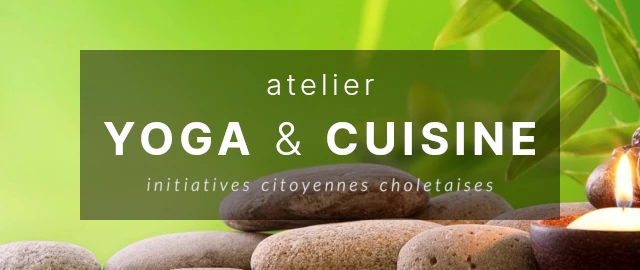
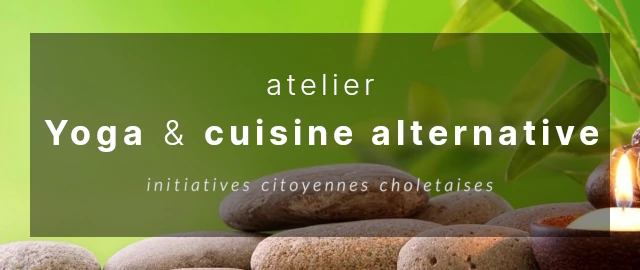
Dates d'ateliers cuisine

Changed region(s): [[0.0312, 0.1185, 0.9688, 0.8889]]

diff --git a/pg/e_003-ateliers cuisine.php b/pg/e_003-ateliers cuisine.php
@@ -41,68 +41,35 @@
       <small>Pour en savoir plus sur comment sont organisés ces ateliers     <a href="#Organisation">↓    voir plus bas    ↓</a></small>
       <div class="grid twin-img" style="z-index: 5;">
         <h2>Prochains rendez-vous</h2>
+        <!-- <small style="text-align: right;">Lieu : Cholet      9h30-14h00*<br><em>* yoga & cuisine alternative jusqu'à 14h30</em></small> -->
         <small style="text-align: right;">Lieu : Cholet      9h30-14h00</small>
       </div>
       <div class="navmobile">
         <small>
-          <a href="#box1">» céréales</a>   <a href="#box2">» légumineuses1</a>   <a href="#box3">» légumineuses2</a>   <a href="#box4">» tartes & tourtes</a>
+          <a href="#box1">Céréales et Légumineuses</a>   <a href="#box2">» Désserts Snacks et Petits Déjeuners</a>
         </small>
       </div>
       <div class="wrap">
         <section class="eventBox" id="box1">
-          <img src="../assets/img/e_005-atelier cuisine CEREALES.webp" alt="image date événement" width="10vw">
+          <img src="../assets/img/e_005-atelier cuisine CEREALES et LEGUMINEUSES.webp" alt="image date événement">
           <div class="txtBox">
-            <p>Pizza, crumble, farçis, burgers... Apprenez à cuisiner les céréales complètes et semi complètes avec ou sans gluten sous différentes formes avec des recettes inédites inspirées de Gilles Daveau.</p>
+            <p>Cet atelier associe céréales et légumineuses pour un apport protéinique nécessaire à notre organisme avec peu d'aliments d'origine animale. Les produits sont bios, majoritairement locaux, et de saison. Vous pourrez tester de nouvelles recettes et surtout des desserts !!!</p>
             <div class="displayBtn">
-              <a href="https://www.helloasso.com/associations/initiatives-citoyennes-choletaises/evenements/atelier-cuisine-cereales-avril"
-              title="Page d'inscription sur HelloAsso"><span class="btn _text">mercredi 30 avril 2025</span></a>
-            </div>
-            <div class="displayBtn">
-              <a href="https://www.helloasso.com/associations/initiatives-citoyennes-choletaises/evenements/atelier-cuisine-cereales-mai-1"
-              title="Page d'inscription sur HelloAsso"><span class="btn _text">samedi 17 mai 2025</span></a>
+              <a href="#"
+              title="Page d'inscription sur HelloAsso"><span class="btn _text">samedi 8 novembre 2025</span></a>
             </div>
           </div>
         </section>
         <section class="eventBox" id="box2">
-          <img src="../assets/img/e_004-atelier cuisine LEGUMINEUSES 1.webp" alt="image date événement" width="10vw">
+          <img src="../assets/img/e_005-atelier cuisine Desserts, Snacks ptits dej.webp" alt="image date événement">
           <div class="txtBox">
-            <p>Autour de 5 préparations inspirées des recettes de Gilles Daveau, il vous sera possible de requestionner vos habitudes alimentaires en laissant plus de places aux légumineuses bio.</p>
+            <p>Des desserts sucrés et gourmands, bons pour le moral. Oui mais avec raison et en dosant nous mêmes les apports en sucre et en gras loin des produits ultra transformés néfastes pour notre santé. On ose ajouter à nos recettes, des céréales, des légumineuses, des légumes...</p>
             <div class="displayBtn">
-              <a href="https://www.helloasso.com/associations/initiatives-citoyennes-choletaises/evenements/atelier-cuisine-legumineuses-1-juin"
-              title="Page d'inscription sur HelloAsso"><span class="btn _text">samedi 7 juin 2025</span></a>
+              <a href="https://www.helloasso.com/associations/initiatives-citoyennes-choletaises/evenements/atelier-desserts-snacks-et-petits-dejeuners"
+                title="Page d'inscription sur HelloAsso"><span class="btn _text">samedi 13 décembre 2025</span></a>
             </div>
           </div>
         </section>
-        <section class="eventBox" id="box3">
-          <img src="../assets/img/e_004-atelier cuisine LEGUMINEUSES 2.webp" alt="image date événement">
-          <div class="txtBox">
-            <p>C'est incroyable tout ce que l'on peut faire avec des légumineuses. Ce deuxième atelier vous permettra de découvrir d'autres idées autour de ces aliments incontournables pour une alimentation durable.</p>
-            <div class="displayBtn">
-              <a href="https://www.helloasso.com/associations/initiatives-citoyennes-choletaises/evenements/atelier-cuisine-legumineuses-2-juil"
-              title="Page d'inscription sur HelloAsso"><span class="btn _text">mercredi 2 juil 2025</span></a>
-            </div>
-          </div>
-        </section>
-        <section class="eventBox" id="box4">
-          <img src="../assets/img/e_006-atelier cuisine TARTES et TOURTES.webp" alt="image date événement">
-          <div class="txtBox">
-            <p>Autour d'une recette de pâte simple, rapide et inratable nous revisiterons tous les formats des quiches, tartes, et tourtes , sucrées ou salées.</p>
-            <div class="displayBtn">
-              <a href="https://www.helloasso.com/associations/initiatives-citoyennes-choletaises/evenements/atelier-tartes-et-tourtes-avril"
-                title="Page d'inscription sur HelloAsso"><span class="btn _text">samedi 5 avril 2025</span></a>
-            </div>
-          </div>
-        </section>
-        <!-- <section class="eventBox" id="box5">
-          <img src="../assets/img/e_006-atelier cuisine YOGA.webp" alt="image date événement">
-          <div class="txtBox">
-            <p>Après une séance de yoga accessible et complète, qui vous permettra de vous reconnecter à votre corps, vous cuisinerez et partagerez en toute convivialité quelques plats à base de céréales et de légumineuses bio.</p>
-            <div class="displayBtn">
-              <a href="https://www.helloasso.com/associations/initiatives-citoyennes-choletaises/evenements/atelier-yoga-cuisine"
-                title="Page d'inscription sur HelloAsso"><span class="btn _text">vendredi 21 mars 2025</span></a>
-            </div>
-          </div>
-        </section> -->
       </div>
       <p style="text-align: center;">
         N'oubliez pas votre tablier, des contenants pour le partage de fin d'atelier et de quoi écrire.    A bientôt.

diff --git a/event.php b/event.php
@@ -31,7 +31,7 @@
       <section id="left">
         <article id="ateliers_next" class="box">
           <h3>Prochains ateliers cuisine</h3>
-          <h5>1er semestre 2025</h5>
+          <h5>2ème semestre 2025</h5>
           <section class="grid event">
             <div>
               <p>Ateliers à Cholet basés sur la cuisine alternative définie par Gilles DAVEAU..</p>
@@ -41,16 +41,14 @@
               </div>
             </div>
             <div>
-              <p class="dark">mercredi 30 avril 2025    9h30-14h <br><strong>Céréales</strong></p>
-              <p class="dark">samedi 17 mai 2025    9h30-14h <br><strong>Céréales</strong></p>
-              <p class="dark">samedi 7 juin 2025    9h30-14h <br><strong>Légumineuses 1</strong></p>
-              <p class="dark">mercredi 2 juillet 2025    9h30-14h <br><strong>Légumineuses 2</strong></p>
+              <p class="dark">samedi 8 novembre 2025    9h30-14h00 <br><strong>CEREALES et LEGUMINEUSES</strong></p>
+              <p class="dark">samedi 13 décembre 2025    9h30-14h00 <br><strong>Désserts, Snacks & p'tits déj</strong></p>
             </div>
           </section>
         </article>
         <article id="ateliers" class="box">
           <h3>Précédents ateliers cuisine</h3>
-          <h5>automne/hiver 2024</h5>
+          <h5>2024 / 2025</h5>
           <section class="grid event">
             <img src="./assets/img/e_003-atelier cuisine CEREALES.webp" alt="image date événement">
             <div>
@@ -61,8 +59,15 @@
           <section class="grid event">
             <img src="./assets/img/e_003-atelier cuisine LEGUMINEUSES.webp" alt="image date événement">
             <div>
-              <p><strong>atelier « Légumineuses 1 »</strong></p>
+              <p><strong>atelier « Légumineuses »</strong></p>
               <p>Au menu : dhal et pain à base de lentilles, chili, cake aux pois chiches et autres utilisations surprenantes des légumineuses.</p>
+            </div>
+          </section>
+          <section class="grid event">
+            <img src="./assets/img/e_003-atelier cuisine TARTES et TOURTES.webp" alt="image date événement">
+            <div>
+              <p><strong>atelier « Tartes & Tourtes »</strong></p>
+              <p>Une pate rapide, simple et inratable qui offre tellement de possibilités.</p>
             </div>
           </section>
         </article>
